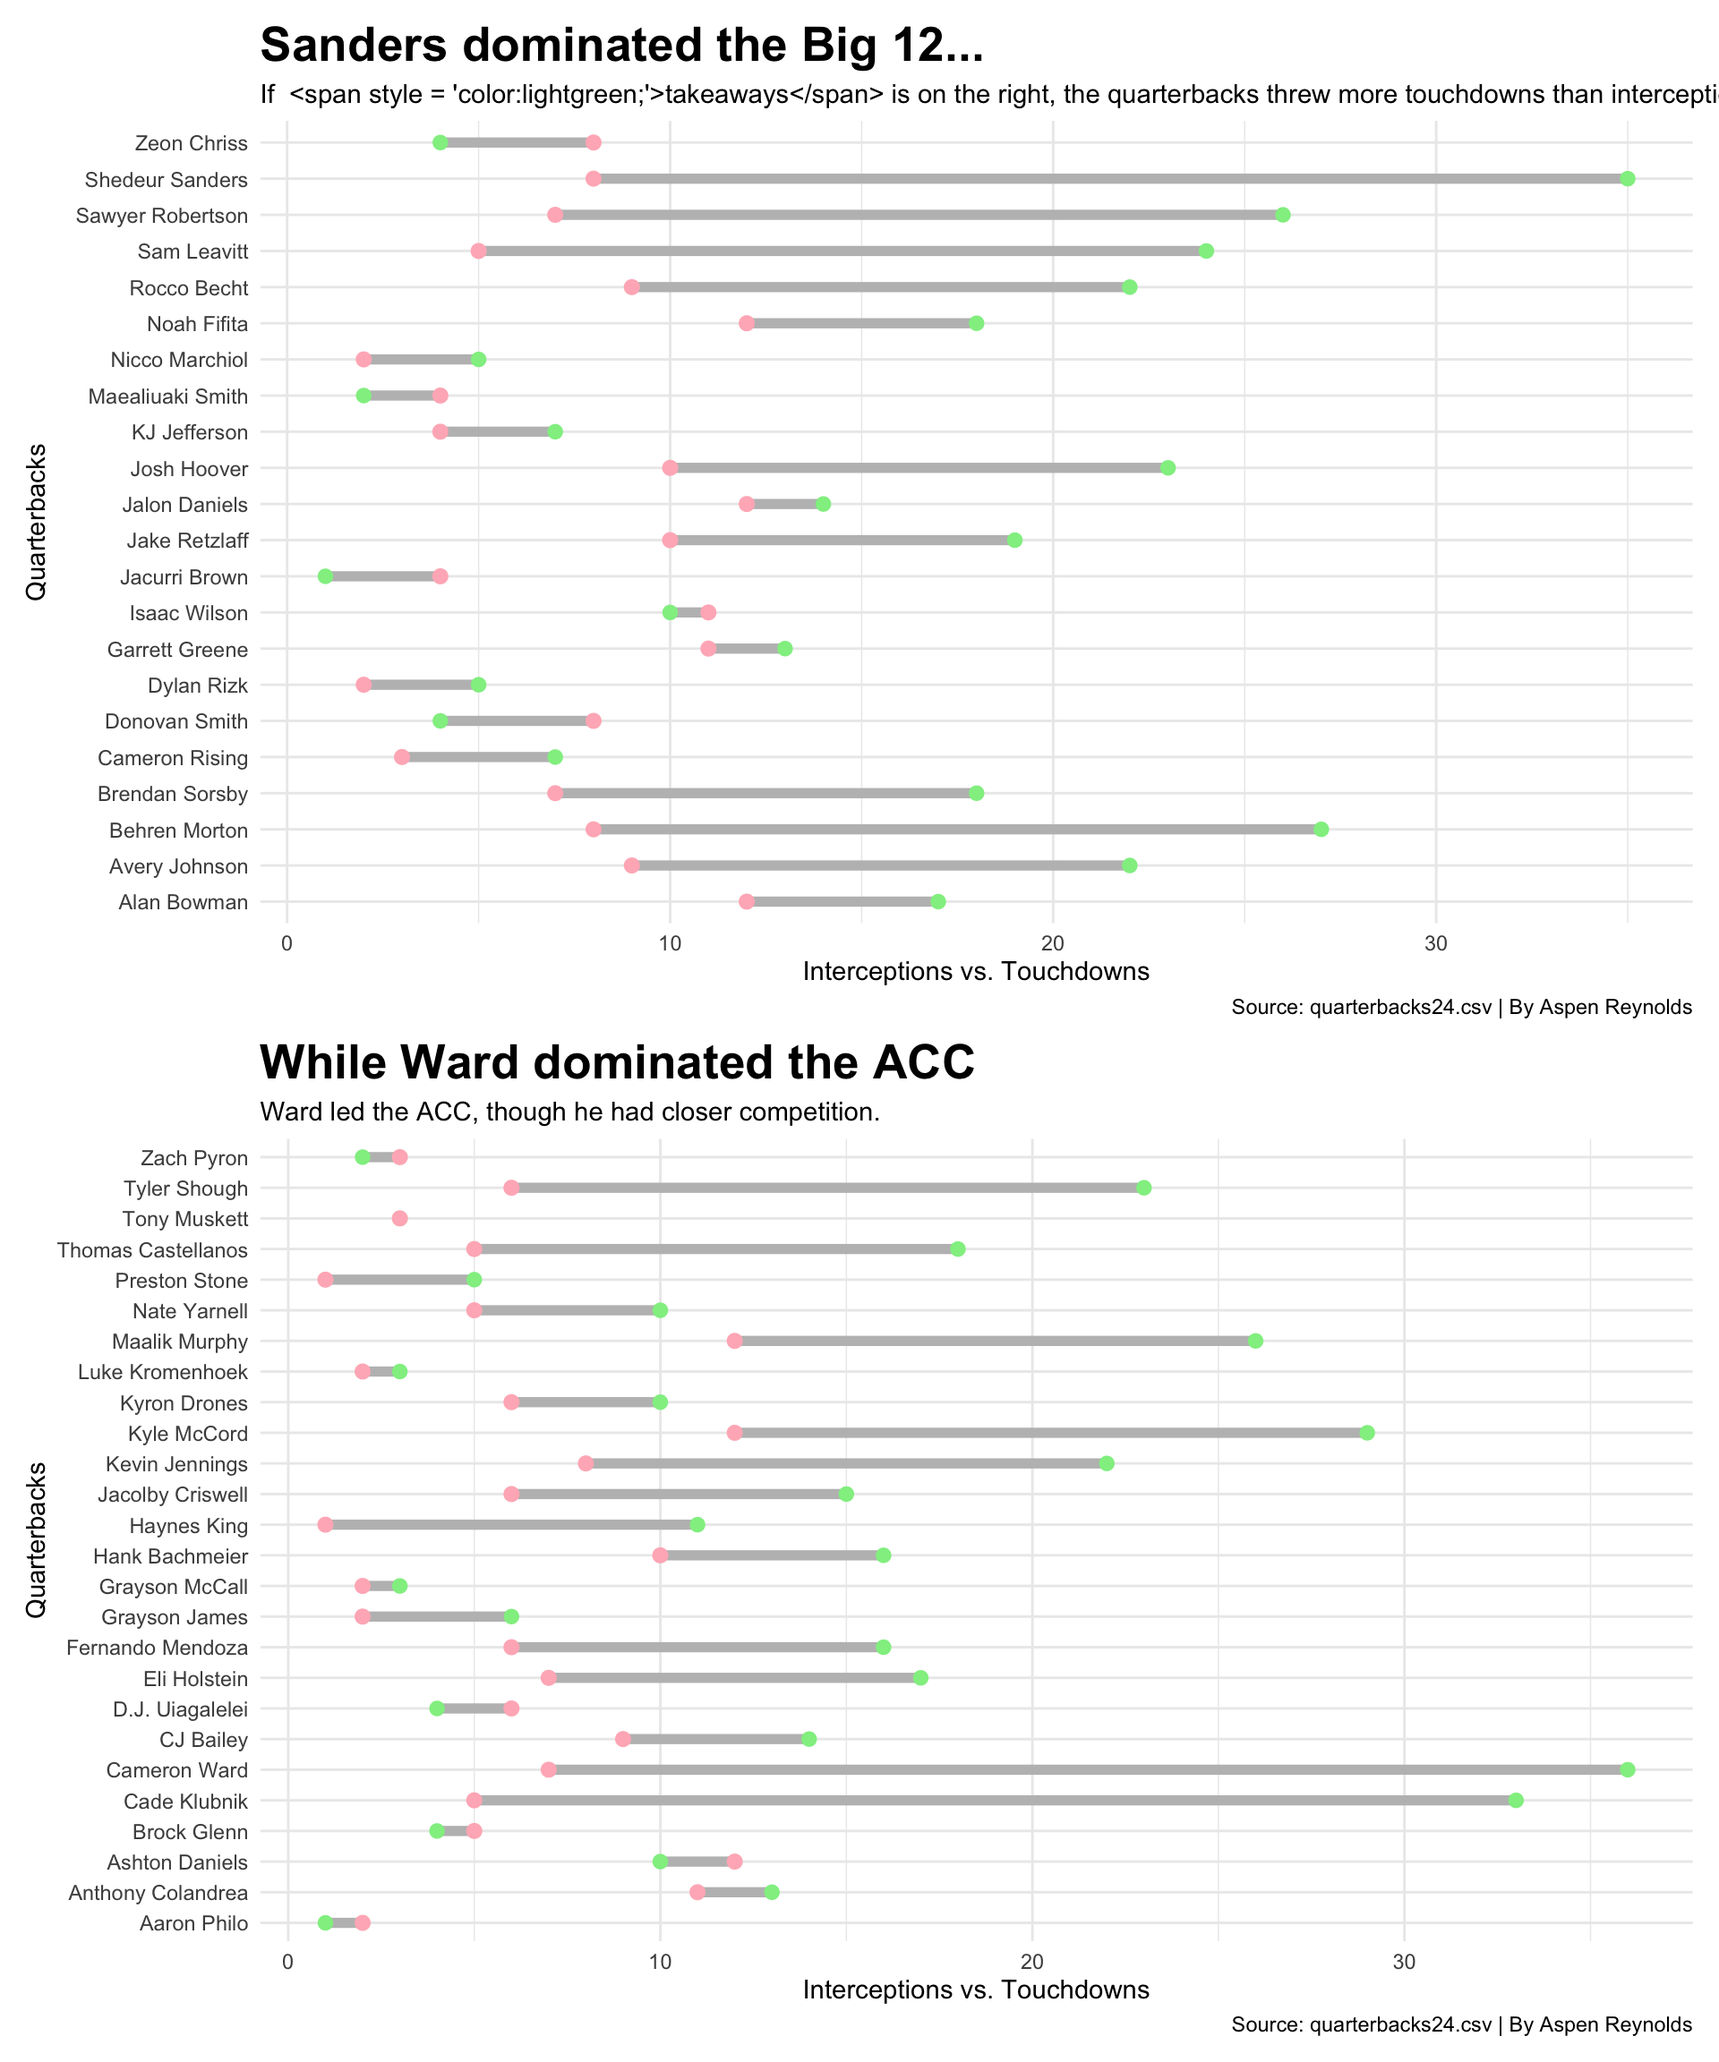
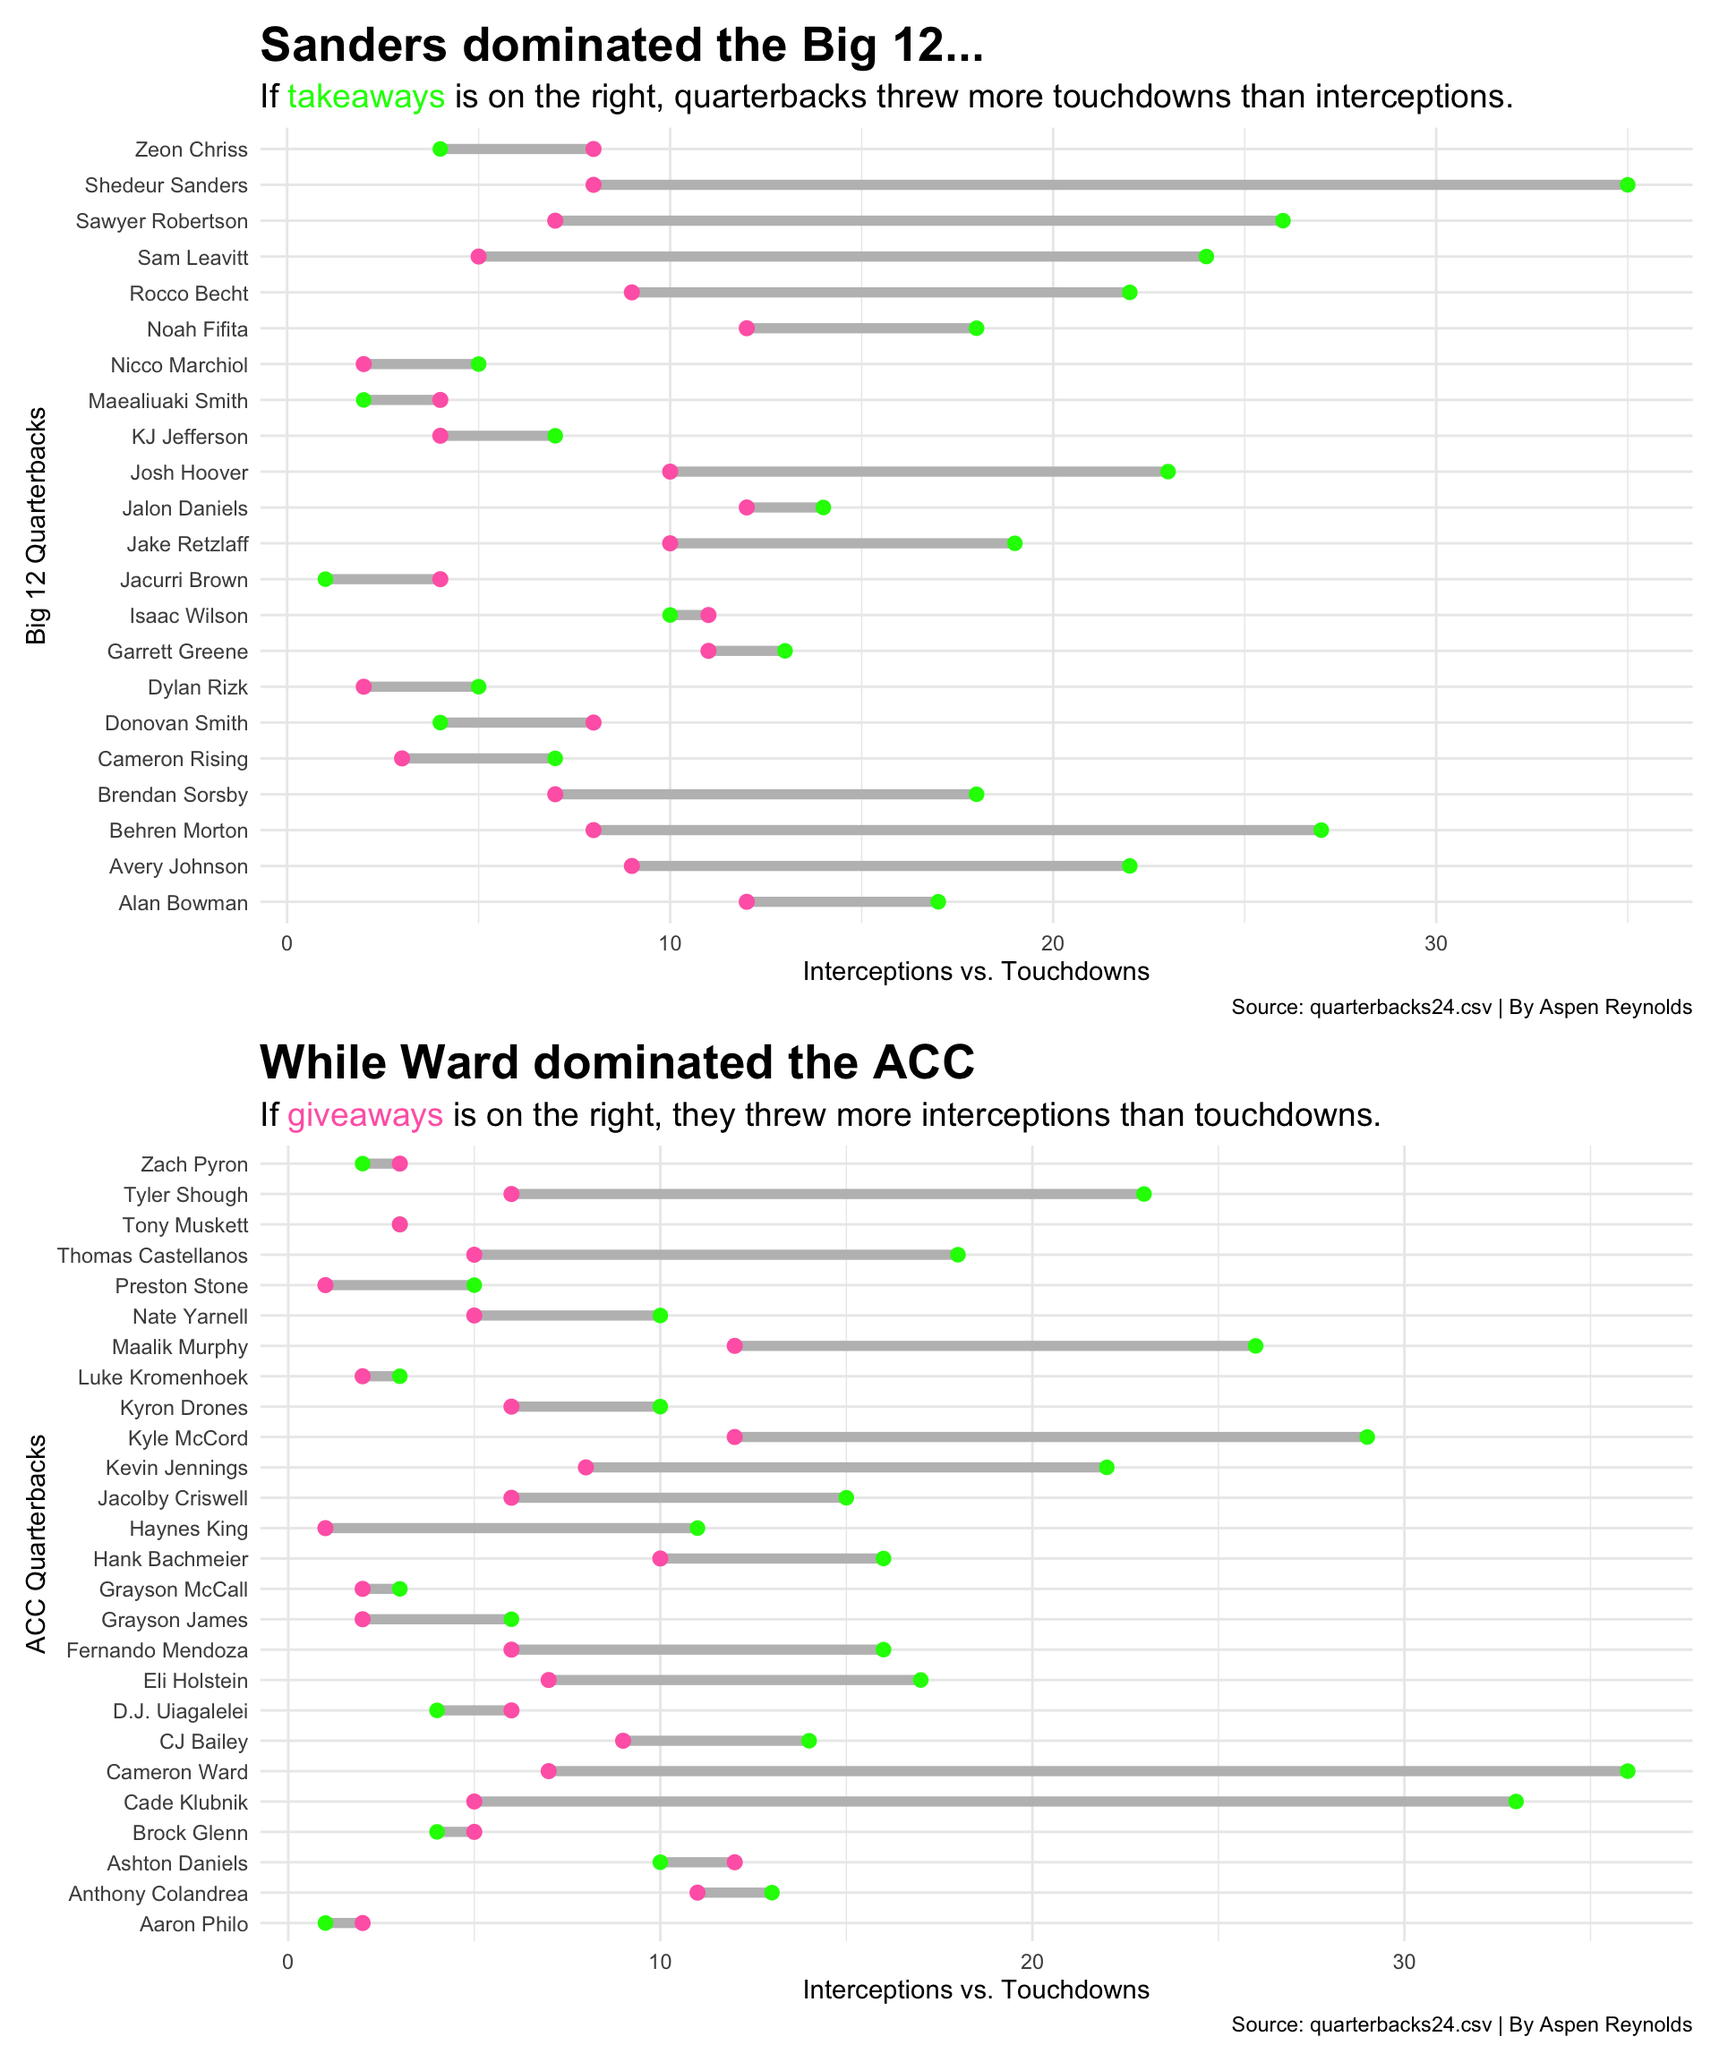
update

diff --git a/posts/post2/post2.html b/posts/post2/post2.html
@@ -217,7 +217,7 @@ pre > code.sourceCode > span > a:first-child::before { text-decoration: underlin
 <span id="cb4-2"><a href="#cb4-2" aria-hidden="true" tabindex="-1"></a>  <span class="fu">filter</span>(player <span class="sc">==</span> <span class="st">"Cameron Ward"</span>)</span></code><button title="Copy to Clipboard" class="code-copy-button"><i class="bi"></i></button></pre></div>
 </details>
 </div>
-<p>Let’s start off by looking at total pass completions and passing percentage. When compared to other Quarterbacks in the Big 12 and Ward, Sanders led the pack.</p>
+<p>Let’s start off by looking at total pass completions and passing percentage. When compared to other quarterbacks in the Big 12 and Ward, Sanders led the pack.</p>
 <div class="cell">
 <details class="code-fold">
 <summary>Code</summary>
@@ -289,8 +289,8 @@ pre > code.sourceCode > span > a:first-child::before { text-decoration: underlin
 <summary>Code</summary>
 <div class="sourceCode cell-code" id="cb8"><pre class="sourceCode r code-with-copy"><code class="sourceCode r"><span id="cb8-1"><a href="#cb8-1" aria-hidden="true" tabindex="-1"></a><span class="fu">ggplot</span>() <span class="sc">+</span> </span>
 <span id="cb8-2"><a href="#cb8-2" aria-hidden="true" tabindex="-1"></a>  <span class="fu">geom_point</span>(<span class="at">data=</span>big12, <span class="fu">aes</span>(<span class="at">x=</span>passing_ypa, <span class="at">y=</span>player), <span class="at">color=</span><span class="st">"black"</span>) <span class="sc">+</span></span>
-<span id="cb8-3"><a href="#cb8-3" aria-hidden="true" tabindex="-1"></a>  <span class="fu">geom_point</span>(<span class="at">data=</span>cw, <span class="fu">aes</span>(<span class="at">x=</span>passing_ypa, <span class="at">y=</span>player), <span class="at">color=</span><span class="st">"#F47321"</span>) <span class="sc">+</span></span>
-<span id="cb8-4"><a href="#cb8-4" aria-hidden="true" tabindex="-1"></a>  <span class="fu">geom_point</span>(<span class="at">data=</span>ss, <span class="fu">aes</span>(<span class="at">x=</span>passing_ypa, <span class="at">y=</span>player), <span class="at">color=</span><span class="st">"#CFB87C"</span>) <span class="sc">+</span></span>
+<span id="cb8-3"><a href="#cb8-3" aria-hidden="true" tabindex="-1"></a>  <span class="fu">geom_point</span>(<span class="at">data=</span>cw, <span class="fu">aes</span>(<span class="at">x=</span>passing_ypa, <span class="at">y=</span>player), <span class="at">color=</span><span class="st">"#F47321"</span>, <span class="at">size=</span><span class="dv">4</span>) <span class="sc">+</span></span>
+<span id="cb8-4"><a href="#cb8-4" aria-hidden="true" tabindex="-1"></a>  <span class="fu">geom_point</span>(<span class="at">data=</span>ss, <span class="fu">aes</span>(<span class="at">x=</span>passing_ypa, <span class="at">y=</span>player), <span class="at">color=</span><span class="st">"#CFB87C"</span>, <span class="at">size=</span><span class="dv">4</span>) <span class="sc">+</span></span>
 <span id="cb8-5"><a href="#cb8-5" aria-hidden="true" tabindex="-1"></a>  <span class="fu">labs</span>(</span>
 <span id="cb8-6"><a href="#cb8-6" aria-hidden="true" tabindex="-1"></a>    <span class="at">x=</span><span class="st">"Average yards gained per play"</span>, </span>
 <span id="cb8-7"><a href="#cb8-7" aria-hidden="true" tabindex="-1"></a>    <span class="at">y=</span><span class="st">"Quarterbacks"</span>, </span>
@@ -333,19 +333,20 @@ pre > code.sourceCode > span > a:first-child::before { text-decoration: underlin
 <span id="cb10-4"><a href="#cb10-4" aria-hidden="true" tabindex="-1"></a>    <span class="fu">aes</span>(<span class="at">y=</span>player, <span class="at">x=</span>Takeaways, <span class="at">xend=</span>Giveaways),</span>
 <span id="cb10-5"><a href="#cb10-5" aria-hidden="true" tabindex="-1"></a>    <span class="at">size =</span> <span class="dv">2</span>,</span>
 <span id="cb10-6"><a href="#cb10-6" aria-hidden="true" tabindex="-1"></a>    <span class="at">colour =</span> <span class="st">"grey"</span>,</span>
-<span id="cb10-7"><a href="#cb10-7" aria-hidden="true" tabindex="-1"></a>    <span class="at">colour_x =</span> <span class="st">"lightgreen"</span>,</span>
-<span id="cb10-8"><a href="#cb10-8" aria-hidden="true" tabindex="-1"></a>    <span class="at">colour_xend =</span> <span class="st">"lightpink"</span>) <span class="sc">+</span></span>
+<span id="cb10-7"><a href="#cb10-7" aria-hidden="true" tabindex="-1"></a>    <span class="at">colour_x =</span> <span class="st">"green"</span>,</span>
+<span id="cb10-8"><a href="#cb10-8" aria-hidden="true" tabindex="-1"></a>    <span class="at">colour_xend =</span> <span class="st">"hotpink"</span>) <span class="sc">+</span></span>
 <span id="cb10-9"><a href="#cb10-9" aria-hidden="true" tabindex="-1"></a>  <span class="fu">labs</span>(</span>
 <span id="cb10-10"><a href="#cb10-10" aria-hidden="true" tabindex="-1"></a>    <span class="at">x=</span><span class="st">"Interceptions vs. Touchdowns"</span>, </span>
-<span id="cb10-11"><a href="#cb10-11" aria-hidden="true" tabindex="-1"></a>    <span class="at">y=</span><span class="st">"Quarterbacks"</span>, </span>
+<span id="cb10-11"><a href="#cb10-11" aria-hidden="true" tabindex="-1"></a>    <span class="at">y=</span><span class="st">"Big 12 Quarterbacks"</span>, </span>
 <span id="cb10-12"><a href="#cb10-12" aria-hidden="true" tabindex="-1"></a>    <span class="at">title=</span><span class="st">"Sanders dominated the Big 12..."</span>, </span>
-<span id="cb10-13"><a href="#cb10-13" aria-hidden="true" tabindex="-1"></a>    <span class="at">subtitle=</span><span class="st">"If  &lt;span style = 'color:lightgreen;'&gt;takeaways&lt;/span&gt; is on the right, the quarterbacks threw more touchdowns than interceptions. If &lt;span style = 'color:lightpink;'&gt;giveaways&lt;/span is on the right, that's bad."</span>, </span>
+<span id="cb10-13"><a href="#cb10-13" aria-hidden="true" tabindex="-1"></a>    <span class="at">subtitle=</span><span class="st">"If  &lt;span style = 'color:green;'&gt;takeaways&lt;/span&gt; is on the right, quarterbacks threw more touchdowns than interceptions."</span>, </span>
 <span id="cb10-14"><a href="#cb10-14" aria-hidden="true" tabindex="-1"></a>    <span class="at">caption=</span><span class="st">"Source: quarterbacks24.csv | By Aspen Reynolds"</span></span>
 <span id="cb10-15"><a href="#cb10-15" aria-hidden="true" tabindex="-1"></a>    ) <span class="sc">+</span></span>
 <span id="cb10-16"><a href="#cb10-16" aria-hidden="true" tabindex="-1"></a>  <span class="fu">theme_minimal</span>() <span class="sc">+</span> </span>
 <span id="cb10-17"><a href="#cb10-17" aria-hidden="true" tabindex="-1"></a>  <span class="fu">theme</span>(</span>
-<span id="cb10-18"><a href="#cb10-18" aria-hidden="true" tabindex="-1"></a>    <span class="at">plot.title =</span> <span class="fu">element_text</span>(<span class="at">size =</span> <span class="dv">20</span>, <span class="at">face =</span> <span class="st">"bold"</span>)</span>
-<span id="cb10-19"><a href="#cb10-19" aria-hidden="true" tabindex="-1"></a>    )</span></code><button title="Copy to Clipboard" class="code-copy-button"><i class="bi"></i></button></pre></div>
+<span id="cb10-18"><a href="#cb10-18" aria-hidden="true" tabindex="-1"></a>    <span class="at">plot.title =</span> <span class="fu">element_text</span>(<span class="at">size =</span> <span class="dv">20</span>, <span class="at">face =</span> <span class="st">"bold"</span>),</span>
+<span id="cb10-19"><a href="#cb10-19" aria-hidden="true" tabindex="-1"></a>    <span class="at">plot.subtitle =</span> ggtext<span class="sc">::</span><span class="fu">element_markdown</span>(<span class="at">size=</span><span class="dv">14</span>)</span>
+<span id="cb10-20"><a href="#cb10-20" aria-hidden="true" tabindex="-1"></a>    )</span></code><button title="Copy to Clipboard" class="code-copy-button"><i class="bi"></i></button></pre></div>
 </details>
 </div>
 <div class="cell">
@@ -368,19 +369,20 @@ pre > code.sourceCode > span > a:first-child::before { text-decoration: underlin
 <span id="cb12-4"><a href="#cb12-4" aria-hidden="true" tabindex="-1"></a>    <span class="fu">aes</span>(<span class="at">y=</span>player, <span class="at">x=</span>Takeaways, <span class="at">xend=</span>Giveaways),</span>
 <span id="cb12-5"><a href="#cb12-5" aria-hidden="true" tabindex="-1"></a>    <span class="at">size =</span> <span class="dv">2</span>,</span>
 <span id="cb12-6"><a href="#cb12-6" aria-hidden="true" tabindex="-1"></a>    <span class="at">colour =</span> <span class="st">"grey"</span>,</span>
-<span id="cb12-7"><a href="#cb12-7" aria-hidden="true" tabindex="-1"></a>    <span class="at">colour_x =</span> <span class="st">"lightgreen"</span>,</span>
-<span id="cb12-8"><a href="#cb12-8" aria-hidden="true" tabindex="-1"></a>    <span class="at">colour_xend =</span> <span class="st">"lightpink"</span>) <span class="sc">+</span></span>
+<span id="cb12-7"><a href="#cb12-7" aria-hidden="true" tabindex="-1"></a>    <span class="at">colour_x =</span> <span class="st">"green"</span>,</span>
+<span id="cb12-8"><a href="#cb12-8" aria-hidden="true" tabindex="-1"></a>    <span class="at">colour_xend =</span> <span class="st">"hotpink"</span>) <span class="sc">+</span></span>
 <span id="cb12-9"><a href="#cb12-9" aria-hidden="true" tabindex="-1"></a>  <span class="fu">labs</span>(</span>
 <span id="cb12-10"><a href="#cb12-10" aria-hidden="true" tabindex="-1"></a>    <span class="at">x=</span><span class="st">"Interceptions vs. Touchdowns"</span>, </span>
-<span id="cb12-11"><a href="#cb12-11" aria-hidden="true" tabindex="-1"></a>    <span class="at">y=</span><span class="st">"Quarterbacks"</span>, </span>
+<span id="cb12-11"><a href="#cb12-11" aria-hidden="true" tabindex="-1"></a>    <span class="at">y=</span><span class="st">"ACC Quarterbacks"</span>, </span>
 <span id="cb12-12"><a href="#cb12-12" aria-hidden="true" tabindex="-1"></a>    <span class="at">title=</span><span class="st">"While Ward dominated the ACC"</span>, </span>
-<span id="cb12-13"><a href="#cb12-13" aria-hidden="true" tabindex="-1"></a>    <span class="at">subtitle=</span><span class="st">"Ward led the ACC, though he had closer competition."</span>, </span>
+<span id="cb12-13"><a href="#cb12-13" aria-hidden="true" tabindex="-1"></a>    <span class="at">subtitle=</span><span class="st">"If &lt;span style = 'color:hotpink;'&gt;giveaways&lt;/span&gt; is on the right, they threw more interceptions than touchdowns."</span>, </span>
 <span id="cb12-14"><a href="#cb12-14" aria-hidden="true" tabindex="-1"></a>    <span class="at">caption=</span><span class="st">"Source: quarterbacks24.csv | By Aspen Reynolds"</span></span>
 <span id="cb12-15"><a href="#cb12-15" aria-hidden="true" tabindex="-1"></a>    ) <span class="sc">+</span></span>
 <span id="cb12-16"><a href="#cb12-16" aria-hidden="true" tabindex="-1"></a>  <span class="fu">theme_minimal</span>() <span class="sc">+</span> </span>
 <span id="cb12-17"><a href="#cb12-17" aria-hidden="true" tabindex="-1"></a>  <span class="fu">theme</span>(</span>
-<span id="cb12-18"><a href="#cb12-18" aria-hidden="true" tabindex="-1"></a>    <span class="at">plot.title =</span> <span class="fu">element_text</span>(<span class="at">size =</span> <span class="dv">20</span>, <span class="at">face =</span> <span class="st">"bold"</span>)</span>
-<span id="cb12-19"><a href="#cb12-19" aria-hidden="true" tabindex="-1"></a>    )</span></code><button title="Copy to Clipboard" class="code-copy-button"><i class="bi"></i></button></pre></div>
+<span id="cb12-18"><a href="#cb12-18" aria-hidden="true" tabindex="-1"></a>    <span class="at">plot.title =</span> <span class="fu">element_text</span>(<span class="at">size =</span> <span class="dv">20</span>, <span class="at">face =</span> <span class="st">"bold"</span>),</span>
+<span id="cb12-19"><a href="#cb12-19" aria-hidden="true" tabindex="-1"></a>    <span class="at">plot.subtitle =</span> ggtext<span class="sc">::</span><span class="fu">element_markdown</span>(<span class="at">size=</span><span class="dv">14</span>)</span>
+<span id="cb12-20"><a href="#cb12-20" aria-hidden="true" tabindex="-1"></a>    )</span></code><button title="Copy to Clipboard" class="code-copy-button"><i class="bi"></i></button></pre></div>
 </details>
 </div>
 <div class="cell">

diff --git a/index.html b/index.html
@@ -200,7 +200,7 @@ window.Quarto = {
 
 <div class="quarto-listing quarto-listing-container-default" id="listing-listing">
 <div class="list quarto-listing-default">
-<div class="quarto-post image-right" data-index="0" data-categories="Zm9vdGJhbGwlMkNtaWFtaSUyQ2NvbG9yYWRvJTJDbmZsZHJhZnQ=" data-listing-date-sort="1745989200000" data-listing-file-modified-sort="1746415378025" data-listing-date-modified-sort="NaN" data-listing-reading-time-sort="6" data-listing-word-count-sort="1179">
+<div class="quarto-post image-right" data-index="0" data-categories="Zm9vdGJhbGwlMkNtaWFtaSUyQ2NvbG9yYWRvJTJDbmZsZHJhZnQ=" data-listing-date-sort="1745989200000" data-listing-file-modified-sort="1746416991256" data-listing-date-modified-sort="NaN" data-listing-reading-time-sort="6" data-listing-word-count-sort="1190">
 <div class="thumbnail">
 <p><a href="./posts/post2/post2.html" class="no-external"></a></p><a href="./posts/post2/post2.html" class="no-external">
 <p><img loading="lazy" src="./posts/post2/image.png" class="thumbnail-image"></p>
